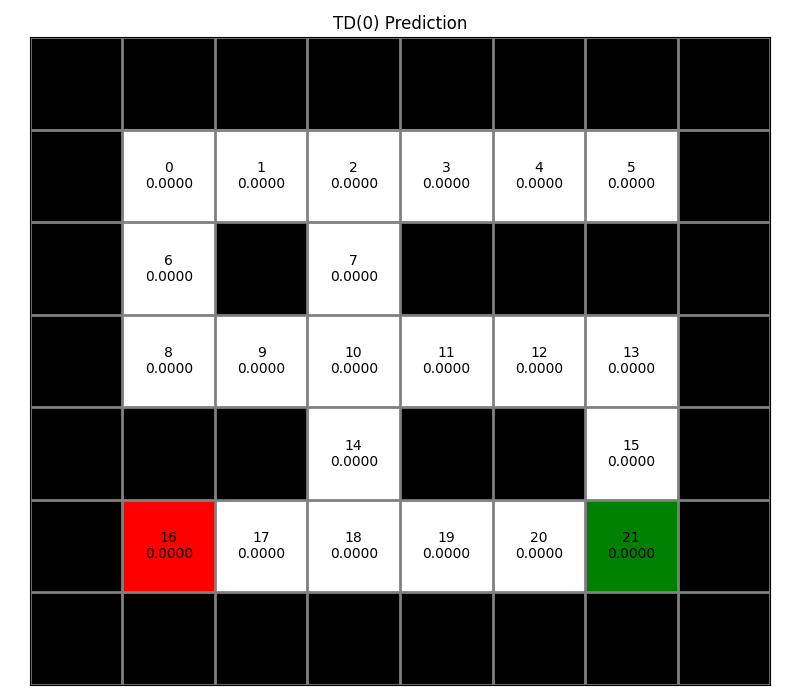
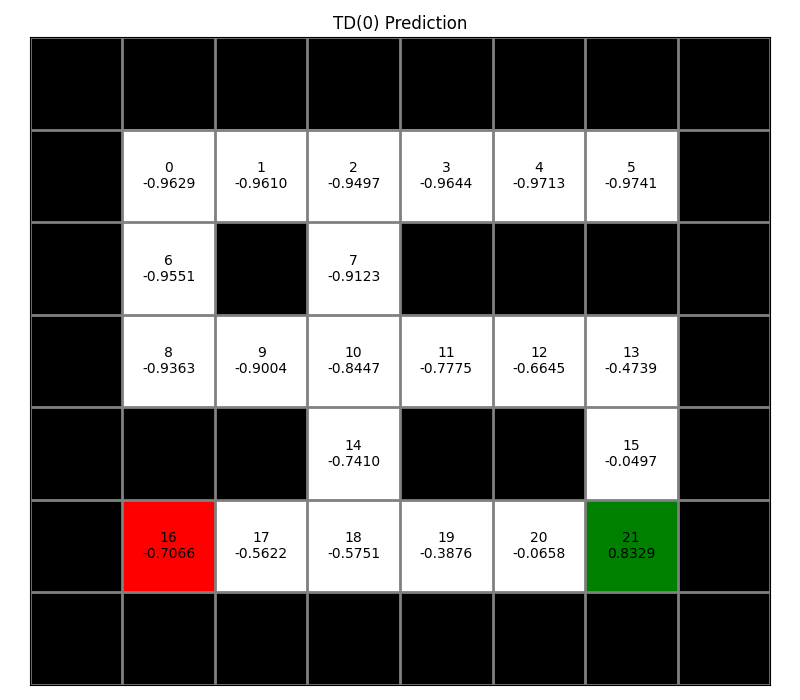
2-1 t2 done

diff --git a/hw2-1/DP_solver.py b/hw2-1/DP_solver.py
@@ -82,7 +82,14 @@ class TDPrediction(DynamicProgramming):
         current_state = self.grid_world.reset()
         while self.grid_world.check():
             next_state, reward, done = self.grid_world.step()
-            
+            if done:
+                self.values[current_state] = self.values[current_state] + \
+                    self.lr*(reward - self.values[current_state])
+            else:
+                self.values[current_state] = self.values[current_state] + self.lr*(
+                    reward + self.discount_factor*self.values[next_state] - self.values[current_state])
+
+            current_state = next_state
 
 
 class NstepTDPrediction(DynamicProgramming):
